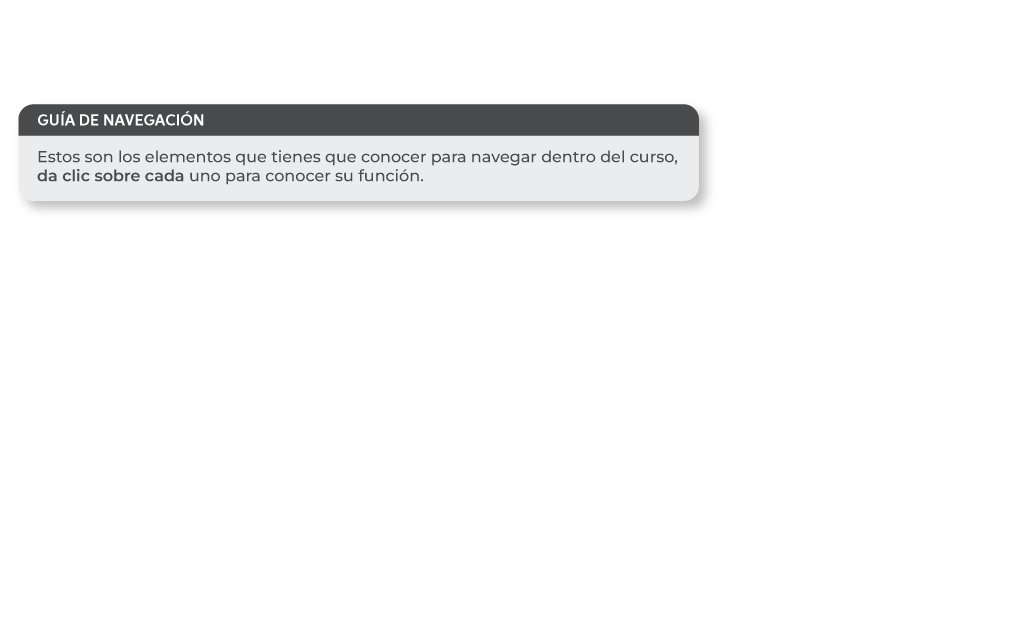
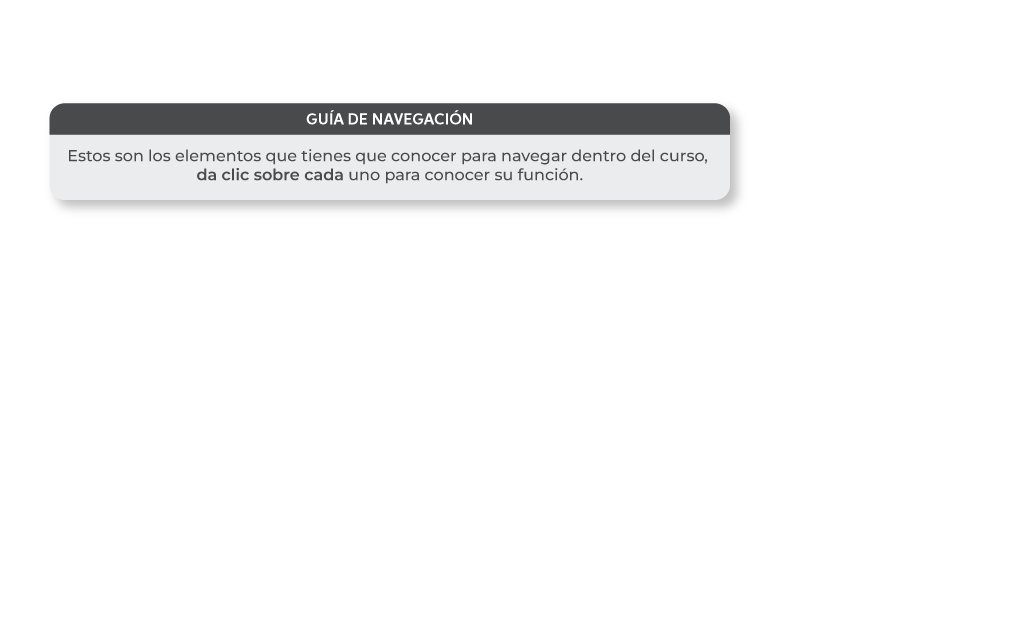
cambios diseño

Changed region(s): [[0.0, 0.1532, 0.7188, 0.3371]]

diff --git a/paginas/pagina02.html b/paginas/pagina02.html
@@ -31,12 +31,12 @@
     <img class="elementos" id="info_menu" src="../img/pagina02/info_menu.png" data-posX="40" data-posY="248.453" alt="">
     <img class="elementos" id="info_recargar" src="../img/pagina02/info_recargar.png" data-posX="282" data-posY="248.453" alt="">
     <img class="elementos" id="info_bocina" src="../img/pagina02/info_bocina.png" data-posX="519" data-posY="248.453" alt="">
-    <img class="elementos" id="info_navegacion" src="../img/pagina02/info_navegacion.png" data-posX="755" data-posY="199.124" alt="">
+    <img class="elementos" id="info_navegacion" src="../img/pagina02/info_navegacion.png" data-posX="764" data-posY="199.124" alt="">
 
     <img class="elementos cursorBtn" id="menu" src="../img/pagina02/menu.png" data-posX="124.783" data-posY="224.115" alt="">
     <img class="elementos cursorBtn" id="recargar" src="../img/pagina02/recargar.png" data-posX="364.285" data-posY="224.115" alt="">
     <img class="elementos cursorBtn" id="bocina" src="../img/pagina02/bocina.png" data-posX="600.276" data-posY="224.115" alt="">
-    <img class="elementos cursorBtn" id="navegacion" src="../img/pagina02/navegacion.png" data-posX="838.67" data-posY="123" alt="">
+    <img class="elementos cursorBtn" id="navegacion" src="../img/pagina02/navegacion.png" data-posX="817" data-posY="183" alt="">
 
 
     <!-- Script de la página -->

diff --git a/paginas/pagina07.html b/paginas/pagina07.html
@@ -24,6 +24,7 @@
 
     <img class="elementos" id="fondo" src="../img/pagina07/fondo.png" data-posX="0" data-posY="0"/>
     <img class="elementos" id="info" src="../img/pagina07/info.png" data-posX="0" data-posY="0"/>
+    <img class="elementos" id="instrucciones" src="../img/pagina07/instrucciones.png" data-posX="0" data-posY="0"/>
    
     
     <!-- Script de la página -->
@@ -34,10 +35,12 @@
 
         const fondo = $('#fondo');
         const info = $('#info');
+        const instrucciones = $('#instrucciones');
 
         // Audios------------------------------------------------------
         const audio = [
             new Audio('../audios/gattaran_7.mp3'),
+            new Audio('../audios/gattaran_7.1.mp3'),
         ]
 
         // Al cargarse la página
@@ -47,10 +50,15 @@
         });
 
         function iniciarContenido(){
-            aplicacion.reproducirAudio(audio[0], 1);
+            aplicacion.reproducirAudio(audio[0], terminaAudio1, 1);
             aplicacion.activarBotonAdelante();
             animacionEntrada(fondo, 'default', 1, 1);
             animacionEntrada(info, 'izquierda-derecha', 1, 16);
+        }
+
+        function terminaAudio1(){
+            aplicacion.reproducirAudio(audio[1], 1);
+            animacionEntrada(instrucciones, 'default', 1);
         }
 
     </script>

diff --git a/paginas/pagina03.html b/paginas/pagina03.html
@@ -57,7 +57,7 @@
 
         function terminaAudio01(){
             aplicacion.reproducirAudio(audio[1], 1);
-            animacionEntrada(instrucciones, 'default', 1, 1);
+            animacionEntrada(instrucciones, 'default', 1);
         }
 
     </script>

diff --git a/paginas/pagina04.html b/paginas/pagina04.html
@@ -88,7 +88,7 @@
         }
         function terminaAudio05(){
             aplicacion.reproducirAudio(audio[5], 1);
-            animacionEntrada(info05, 'default', 1, 1);
+            animacionEntrada(info05, 'default', 1);
         }
 
     </script>
